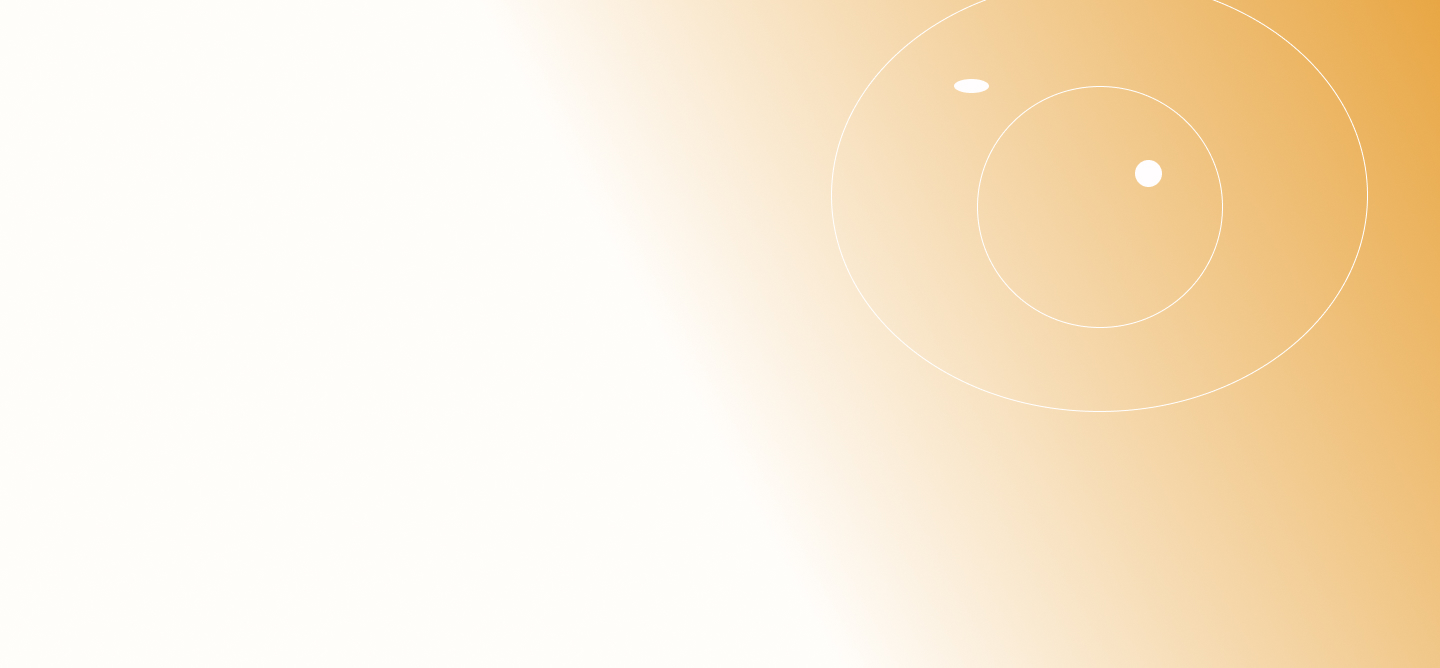
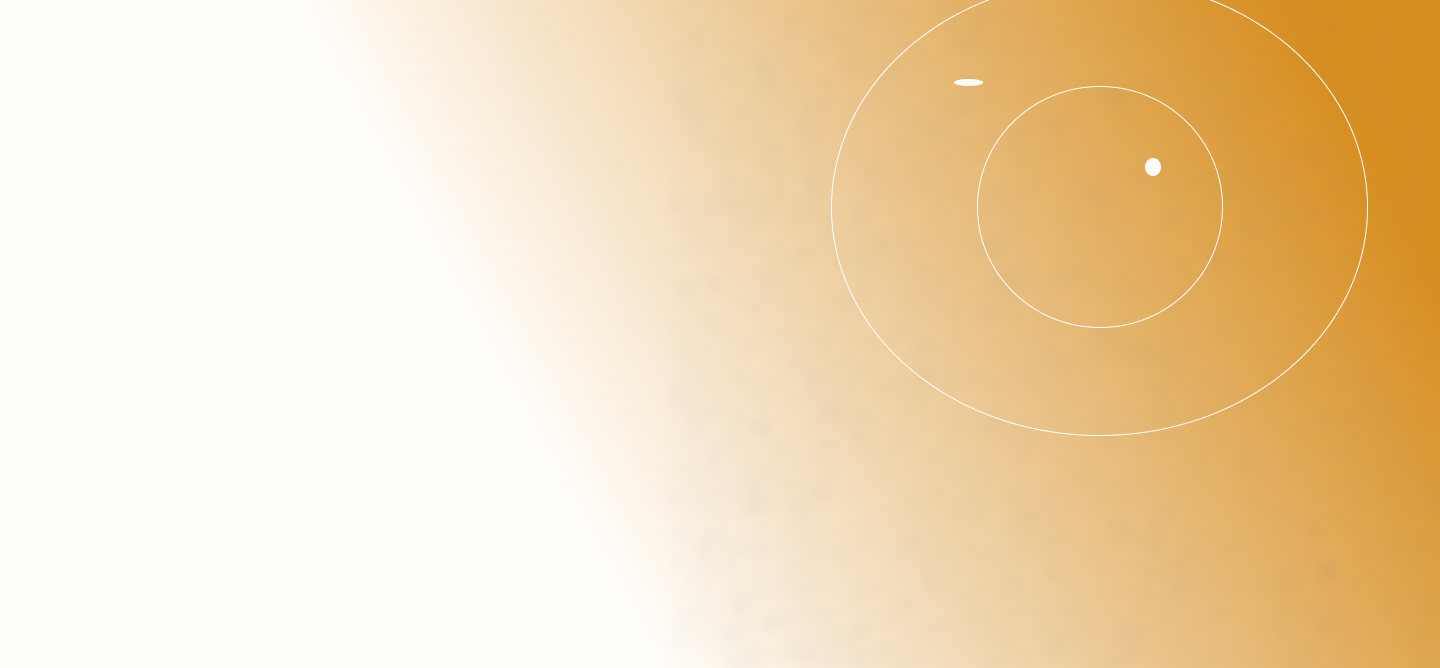
change the bg and images of home

diff --git a/src/Components/Screens/Home.jsx b/src/Components/Screens/Home.jsx
@@ -36,8 +36,9 @@ const Home = () => {
         {/* Right */}
         <div className='flex-1 h-full min-h-[550px] relative'>
           <img src={chefpic} alt="chef" 
-          className='w-[650px] h-[600px] absolute max-w-[800px] bottom-[-150px] left-[-60px]'/>
+          className='w-[700px] h-[650px] absolute max-w-[800px] bottom-[-150px] left-[-80px]'/>
         </div>
+        
       </div>
     </div>
   )

diff --git a/src/output.css b/src/output.css
@@ -654,6 +654,10 @@ video {
   left: -60px;
 }
 
+.left-\[-80px\] {
+  left: -80px;
+}
+
 .z-\[2\] {
   z-index: 2;
 }
@@ -694,6 +698,10 @@ video {
   height: 600px;
 }
 
+.h-\[650px\] {
+  height: 650px;
+}
+
 .max-h-\[700px\] {
   max-height: 700px;
 }
@@ -732,6 +740,10 @@ video {
 
 .w-\[650px\] {
   width: 650px;
+}
+
+.w-\[700px\] {
+  width: 700px;
 }
 
 .max-w-\[800px\] {
